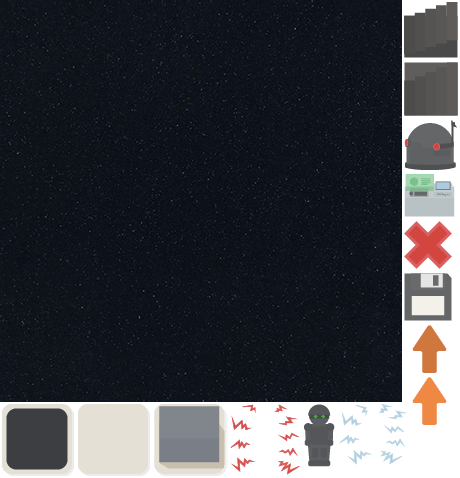
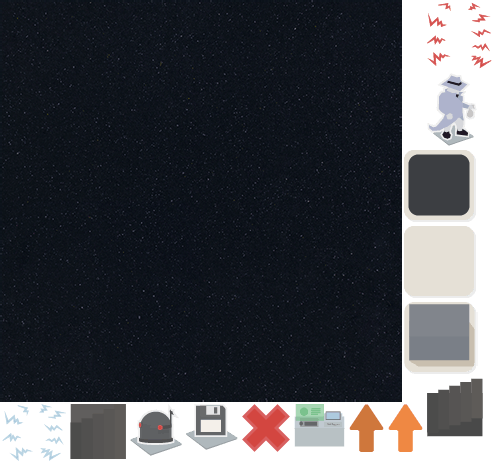
Reskin with a few new tile assets

Changed region(s): [[0.0, 0.0, 1.0, 0.9978]]

diff --git a/src/js/game-objects/level/tile.js b/src/js/game-objects/level/tile.js
@@ -7,9 +7,9 @@ const TYPE_TO_KEY = {
   [TILE_TYPES.START]: "tile-blank",
   [TILE_TYPES.SHOP]: "shop",
   [TILE_TYPES.BLANK]: "tile-blank",
-  [TILE_TYPES.GOLD]: "gold",
+  [TILE_TYPES.GOLD]: "tech",
   [TILE_TYPES.ENEMY]: "enemy",
-  [TILE_TYPES.EXIT]: "exit-down",
+  [TILE_TYPES.EXIT]: "stairs-down",
   [TILE_TYPES.WALL]: "wall"
 };
 
